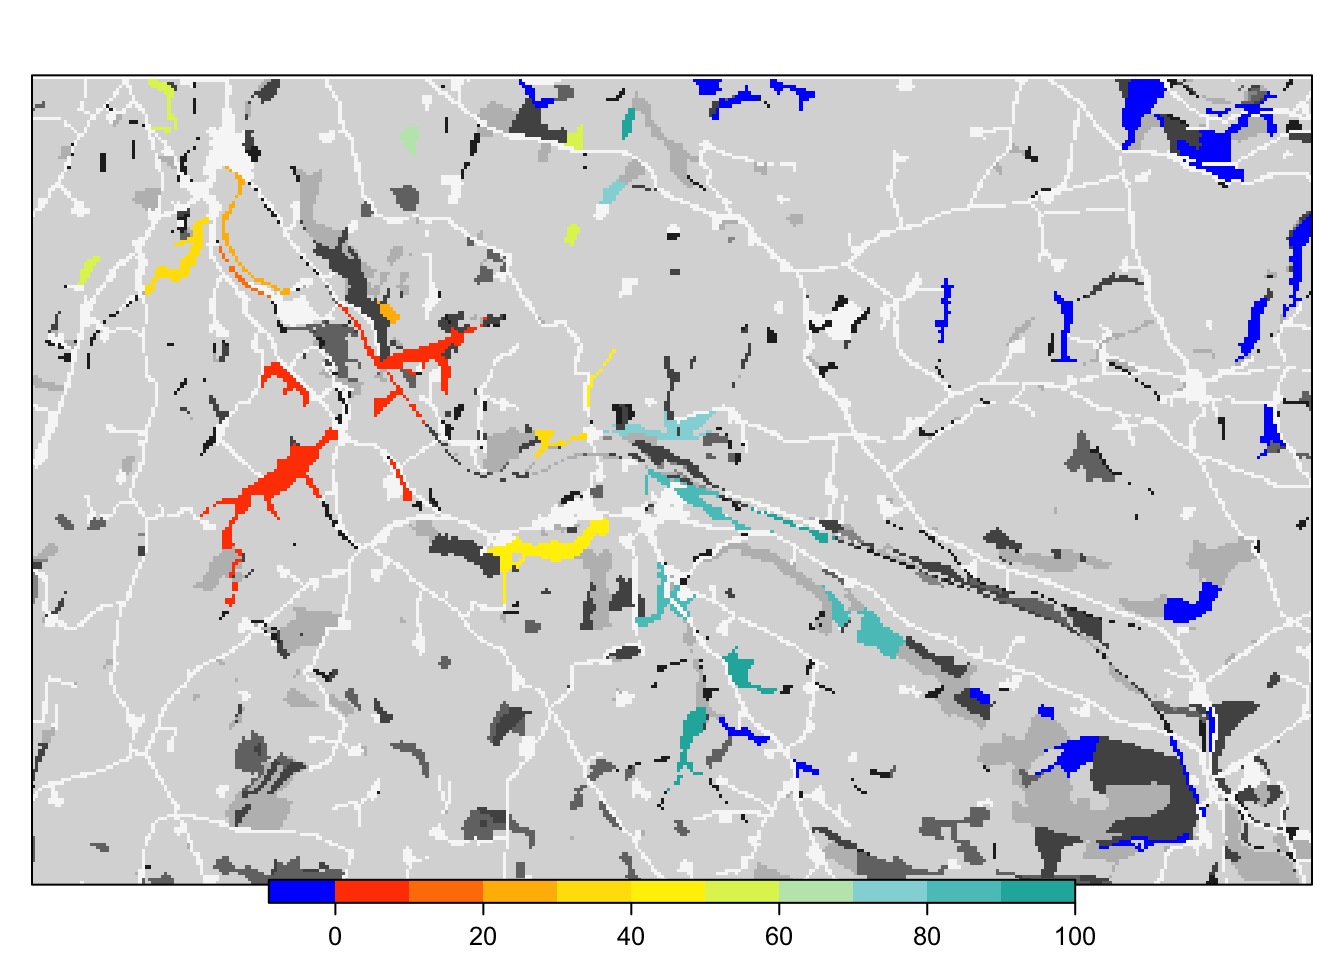
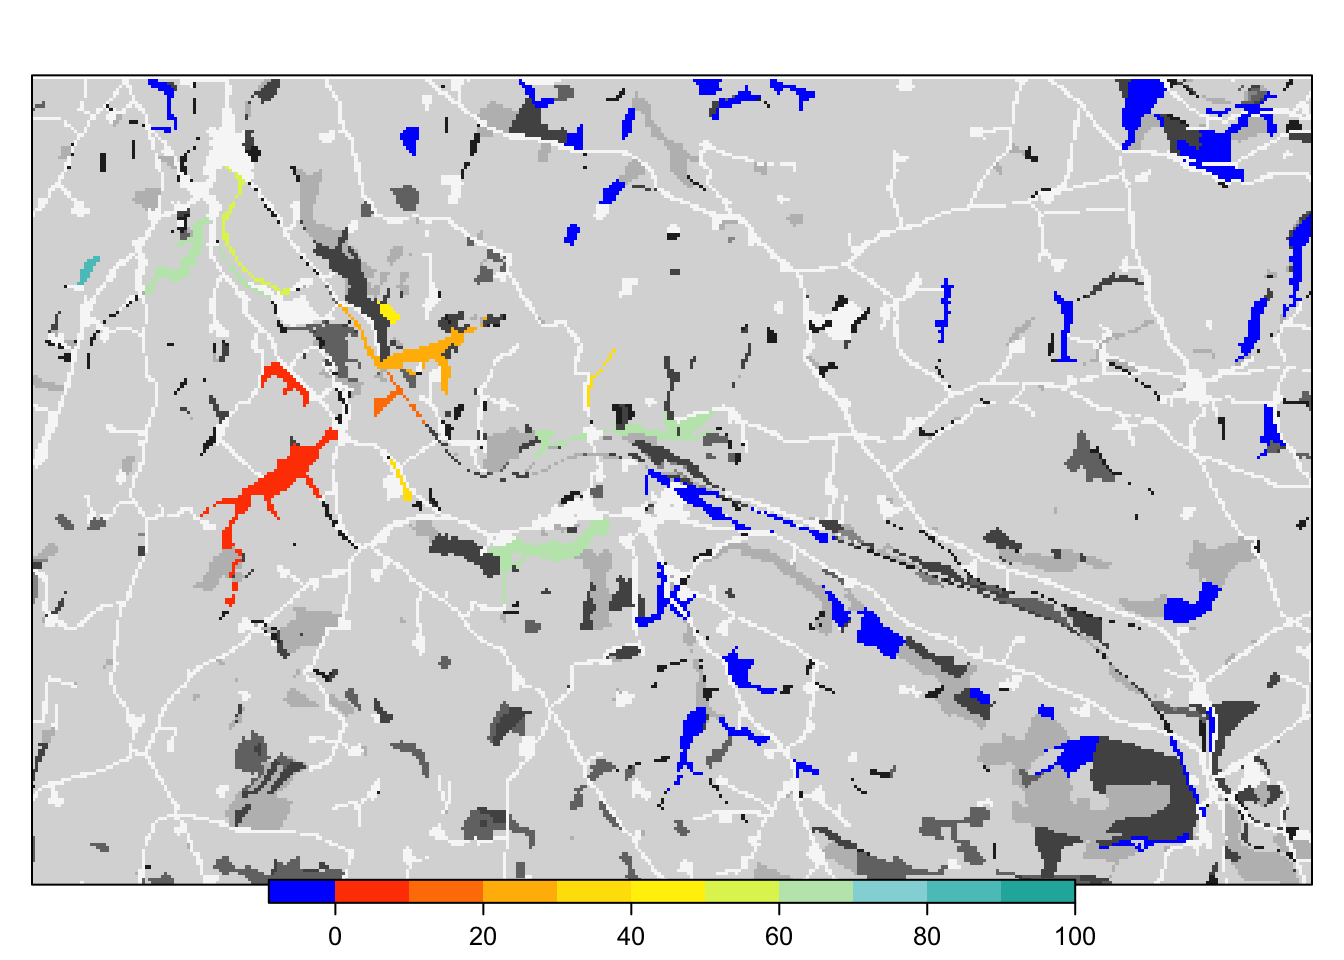
fix minor error

diff --git a/tutorial_2.html b/tutorial_2.html
@@ -25,8 +25,19 @@
 <script src="site_libs/navigation-1.1/tabsets.js"></script>
 <link href="site_libs/highlightjs-9.12.0/textmate.css" rel="stylesheet" />
 <script src="site_libs/highlightjs-9.12.0/highlight.js"></script>
+<link href="site_libs/anchor-sections-1.0/anchor-sections.css" rel="stylesheet" />
+<script src="site_libs/anchor-sections-1.0/anchor-sections.js"></script>
 <link href="site_libs/font-awesome-5.1.0/css/all.css" rel="stylesheet" />
 <link href="site_libs/font-awesome-5.1.0/css/v4-shims.css" rel="stylesheet" />
+
+<style type="text/css">
+  code{white-space: pre-wrap;}
+  span.smallcaps{font-variant: small-caps;}
+  span.underline{text-decoration: underline;}
+  div.column{display: inline-block; vertical-align: top; width: 50%;}
+  div.hanging-indent{margin-left: 1.5em; text-indent: -1.5em;}
+  ul.task-list{list-style: none;}
+    </style>
 
 <style type="text/css">code{white-space: pre;}</style>
 <style type="text/css">
@@ -525,6 +536,7 @@ plot(patch30)</code></pre>
 <div id="demographic-and-dispersal-parameters" class="section level2">
 <h2><span class="header-section-number">2.1</span> Demographic and dispersal parameters</h2>
 <p>We will simulate a sexual species with simple, two-staged structured population dynamics. The parameters are chosen to be representative of species having moderately high fecundity, high juvenile mortality and low adult mortality. This is encoded in the following transition matrix</p>
+<pre class="r"><code>(trans_mat &lt;- matrix(c(0, 1, 0, 0, 0.1, 0.4, 5, 0, 0.8), nrow = 3, byrow = F))</code></pre>
 <pre><code>##      [,1] [,2] [,3]
 ## [1,]    0  0.0  5.0
 ## [2,]    1  0.1  0.0
@@ -601,28 +613,28 @@ bg &lt;- function(main=NULL){
 # mean occupancy probability in year 100
 head(col_stats_a$occ_prob)</code></pre>
 <pre><code>##   patch  100
-## 1     1 0.60
-## 2     8 0.05
-## 3    10 0.00
-## 4    11 0.10
-## 5    13 0.00
-## 6    15 0.90</code></pre>
+## 1    15 0.30
+## 2    17 0.25
+## 3    18 0.00
+## 4    20 0.30
+## 5    23 1.00
+## 6    24 1.00</code></pre>
 <pre class="r"><code># time to colonisation
 head(col_stats_a$col_time)</code></pre>
 <pre><code>##   patch rep.0 rep.1 rep.2 rep.3 rep.4 rep.5 rep.6 rep.7 rep.8 rep.9 rep.10
-## 1     1    NA    NA    67    57    46    43    45    NA    NA    49     90
-## 2     8    NA    NA    NA    NA    93    NA    NA    NA    NA    NA     NA
-## 3    10    NA    NA    NA    65    NA    NA    NA    NA    37    NA     NA
-## 4    11    NA    NA    32    65    NA    34   100    94    90    NA     NA
-## 5    13    NA    86    NA    NA    NA    NA    73    58    NA    NA     NA
-## 6    15    12    45    10    23    41    26    11    49    32     9     26
+## 1    15    57    NA    NA    NA    NA    NA    44    24    94    NA     NA
+## 2    17    48    NA    NA    NA    NA    NA    NA    71    90    NA     NA
+## 3    18    81    NA    NA    NA    NA    NA    NA    NA    NA    NA     NA
+## 4    20    31    NA    NA    NA    NA    NA    76     8    56    NA     NA
+## 5    23    21    48    59    35    30    63    71    67    67    38     45
+## 6    24    10    20    41    16     6    40     5    29    50    19     21
 ##   rep.11 rep.12 rep.13 rep.14 rep.15 rep.16 rep.17 rep.18 rep.19
-## 1     57     NA     50     43     67     51     72     NA     48
-## 2     NA     NA     NA     NA     NA     NA     NA     NA     NA
-## 3     40     NA     NA     NA     NA     48     NA     86     NA
-## 4     37     NA     NA     53     NA     68     NA     NA     48
-## 5     84     31     NA     NA     NA     NA     NA     88     NA
-## 6     10     23     26     38     50     34     54     65     37</code></pre>
+## 1     77     80     98     NA     NA     NA     NA     NA     NA
+## 2     33     77     NA     NA     NA     NA     75     NA     NA
+## 3     NA     NA     NA     NA     NA     NA     NA     NA     NA
+## 4     50     65     86     NA     NA     54     NA     NA     NA
+## 5     37     51     54     26     47     33     77     36     41
+## 6     20     35     36      9     30     12     26      3     21</code></pre>
 <p>For mapping the results, we can use the optional raster output: If enabled, the function <code>ColonisationStats()</code> returns a raster stack with the mean occupancy probabilities of the given years as well as a raster with the mean time to colonisation over all replicates. We plot these maps on top of our landscape:</p>
 <pre class="r"><code># map occupancy probability
 mycol_occprob &lt;- colorRampPalette(c(&#39;blue&#39;,&#39;orangered&#39;,&#39;gold&#39;))
@@ -883,7 +895,7 @@ levelplot(heatmaps_mean,
 
 // add bootstrap table styles to pandoc tables
 function bootstrapStylePandocTables() {
-  $('tr.header').parent('thead').parent('table').addClass('table table-condensed');
+  $('tr.odd').parent('tbody').parent('table').addClass('table table-condensed');
 }
 $(document).ready(function () {
   bootstrapStylePandocTables();
